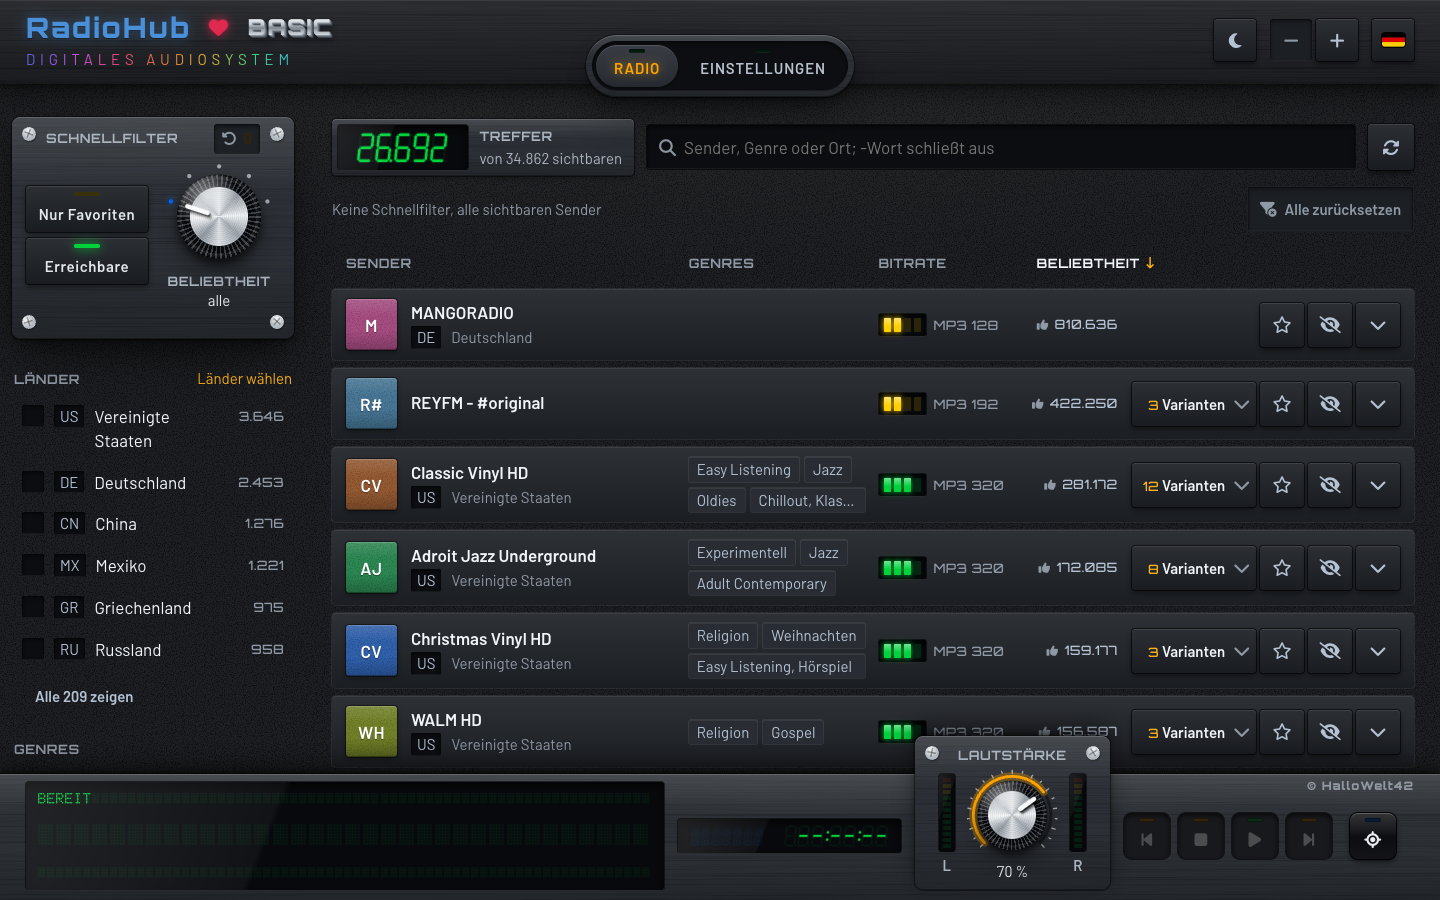
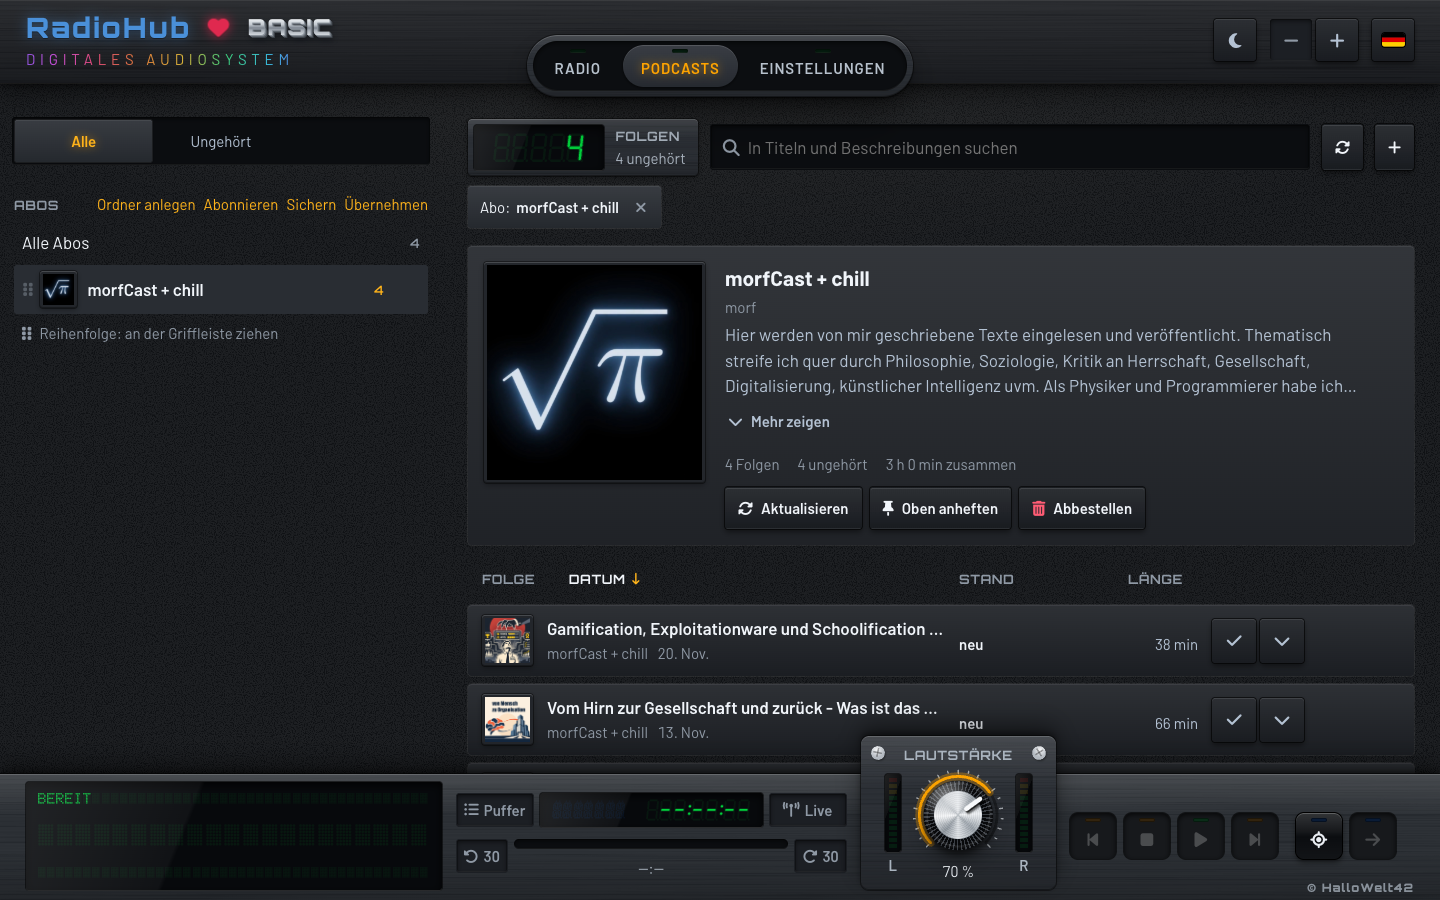
RAD-110: Bild von Basic in der README neu, dunkel mit Podcasts (morfCast + chill)

diff --git a/README.md b/README.md
@@ -33,7 +33,7 @@ Datei sichern, Abos als OPML-Datei. Podcasts sucht Basic direkt in den Verzeichn
 bietet nur an, was der Browser lesen kann (manche Server erlauben das nicht, die gehen nur in PRO). Senderlogos und
 Bilder kommen direkt von den Servern der Sender und Podcasts. Ohne Zeitversatz, Aufnahmen und Werbeerkennung.
 
-![RadioHub Basic](media/webversion.png)
+![RadioHub Basic mit Podcasts im Browser](media/webversion.png)
 
 ## Starten
 
